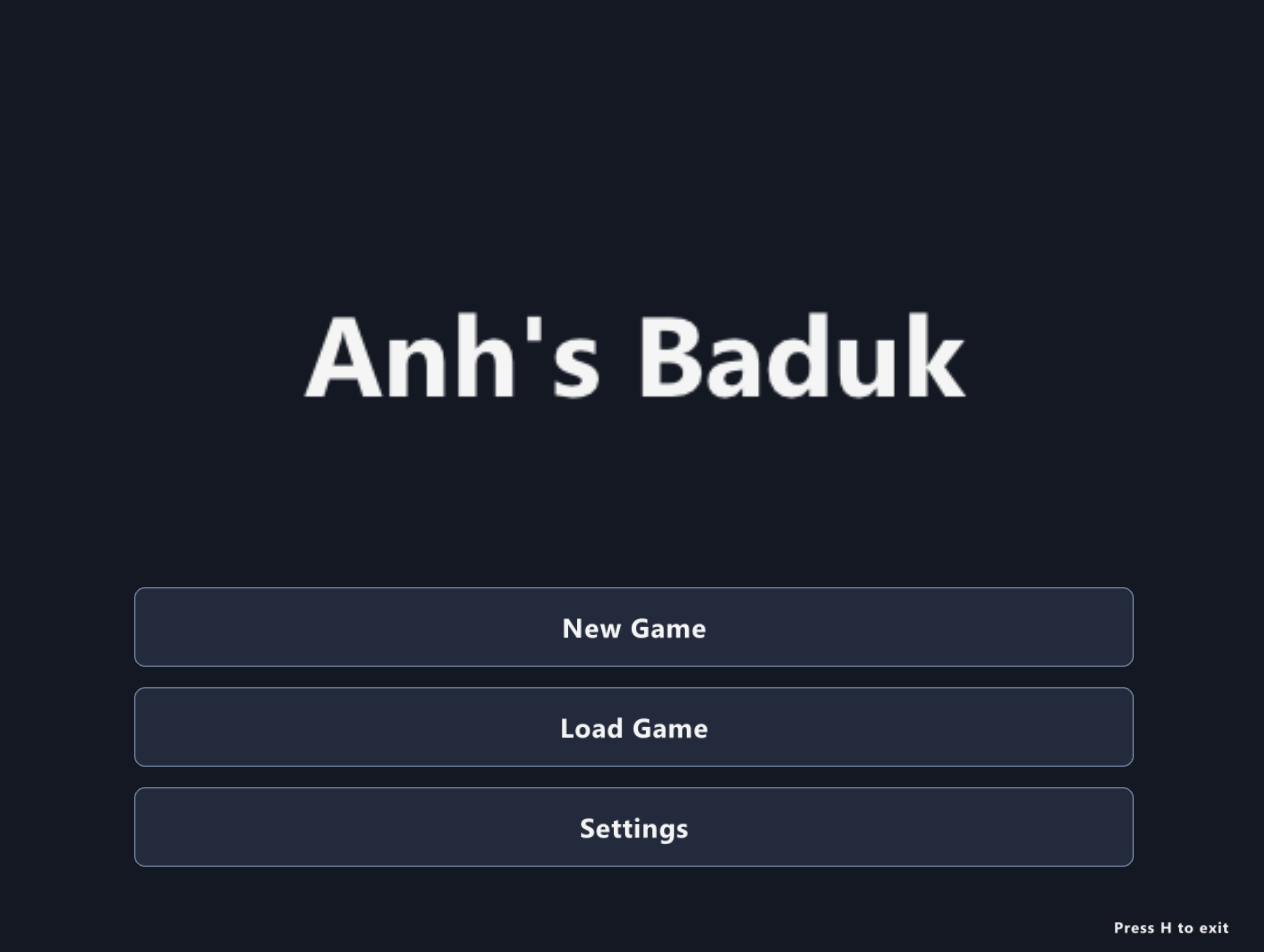
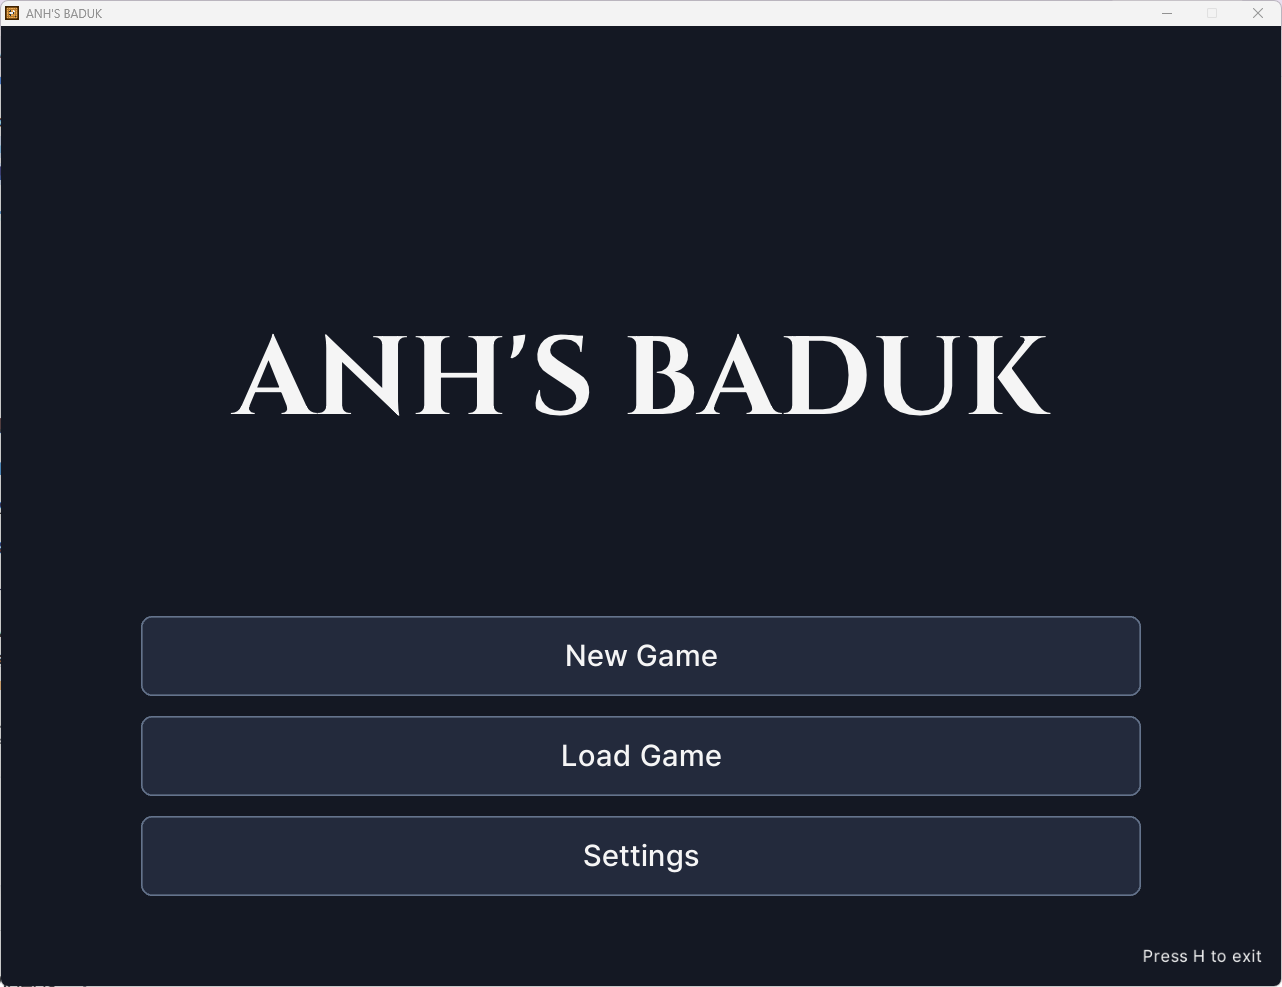
chore: update readme.md

diff --git a/README.md b/README.md
@@ -3,6 +3,8 @@
 ## Introduction
 This is the C++ final project for the course **CS160 - Introduction to Computer Science**. 
 
+![Menu](screenshots/Menu.png)
+
 The objective of this project is to recreate the traditional board game Go using C++ and the Raylib library, following the Japanese ruleset. The application aims to provide an intuitive and user-friendly interface for learning, practicing, and enjoying Go. Users can play against another player or a computer with three difficulty levels and choose from different board sizes. The game also allows users to undo and redo moves, save and load games, and customize audio settings.
 
 ## Features
